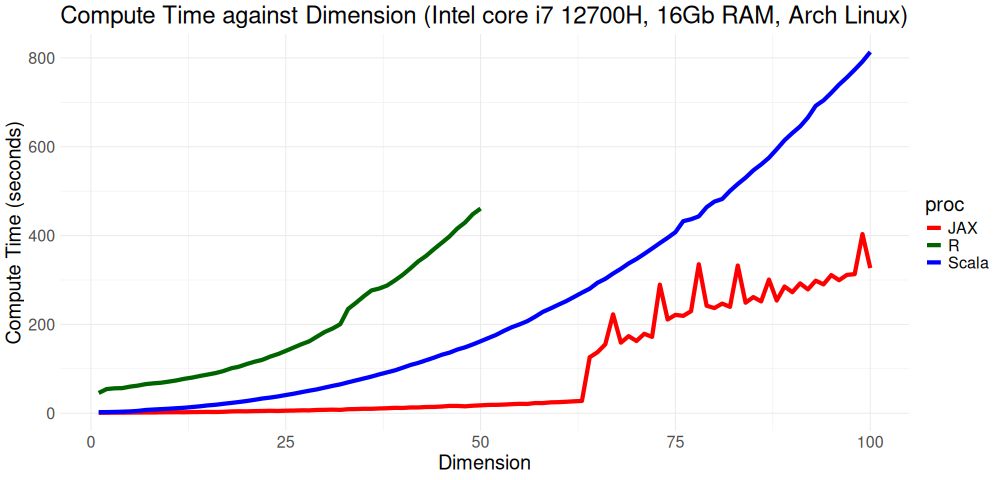
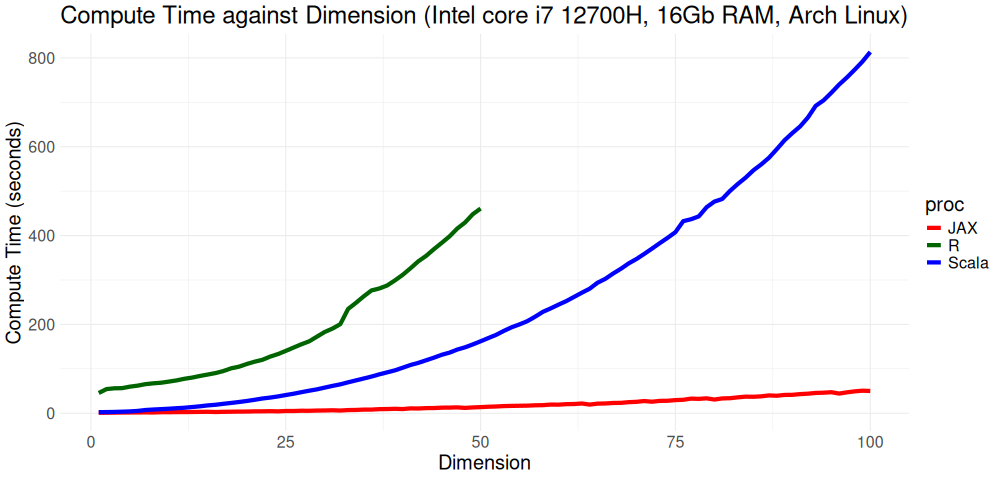
re-ran JAX complexity

Changed region(s): [[0.248, 0.75, 0.868, 0.875], [0.651, 0.5, 0.868, 0.6875], [0.589, 0.6562, 0.651, 0.75]]

diff --git a/AM_in_JAX.py b/AM_in_JAX.py
@@ -237,11 +237,14 @@ def main(d=10, n=100000, thinrate=10, burnin=10000, file="Figures/adaptive_trace
     duration = time.time()-start_time
     
     # the empirical covariance of the sample
-    sigma_j = cov(am_sample[1])
-    b = effectiveness(sigma,sigma_j)
+    #sigma_j = cov(am_sample[1])
+    C_j = am_sample[3][-1]# / (5.6644/d)
+    b = effectiveness(sigma,C_j)
 
-    print(f"The true variance of x_1 is {sigma[0,0]}")
-    print(f"The empirical sigma value is {sigma_j[0,0]}")
+    #print(f"The true variance of x_1 is {sigma[0,0]}")
+    #print(f"The empirical sigma value is {C_j[0,0]}")
+    print(f"The optimal sampling value is {sigma[0,0] * (5.6644/d)}")
+    print(f"The actual sampling value is {C_j[0,0]}")
     print(f"The b value is {b}")
     print(f"The computation took {duration} seconds")
 
@@ -260,14 +263,14 @@ if __name__ == "__main__":
     
     #or high dimensions
     
-    main(d=100, n=10000, thinrate=100, burnin=1000000, file ="Figures/adaptive_trace_JAX_d_100.png")
+    #main(d=100, n=10000, thinrate=100, burnin=1000000, file ="Figures/adaptive_trace_JAX_d_100.png")
 
     # For computing the time graph
     
-    #matrix = []
-    #with open('./data/chaotic_variance.csv', 'r', newline='') as file:
-    #    reader = csv.reader(file)
-    #    for row in reader:
-    #        matrix.append([float(item) for item in row])
-    #sigma = jnp.array(matrix)
-    #compute_time_graph(sigma, "data/JAX_compute_times-laptop-2.csv")
+    matrix = []
+    with open('./data/chaotic_variance.csv', 'r', newline='') as file:
+        reader = csv.reader(file)
+        for row in reader:
+            matrix.append([float(item) for item in row])
+    sigma = jnp.array(matrix)
+    compute_time_graph(sigma, "data/JAX_compute_times-laptop-2.csv")
